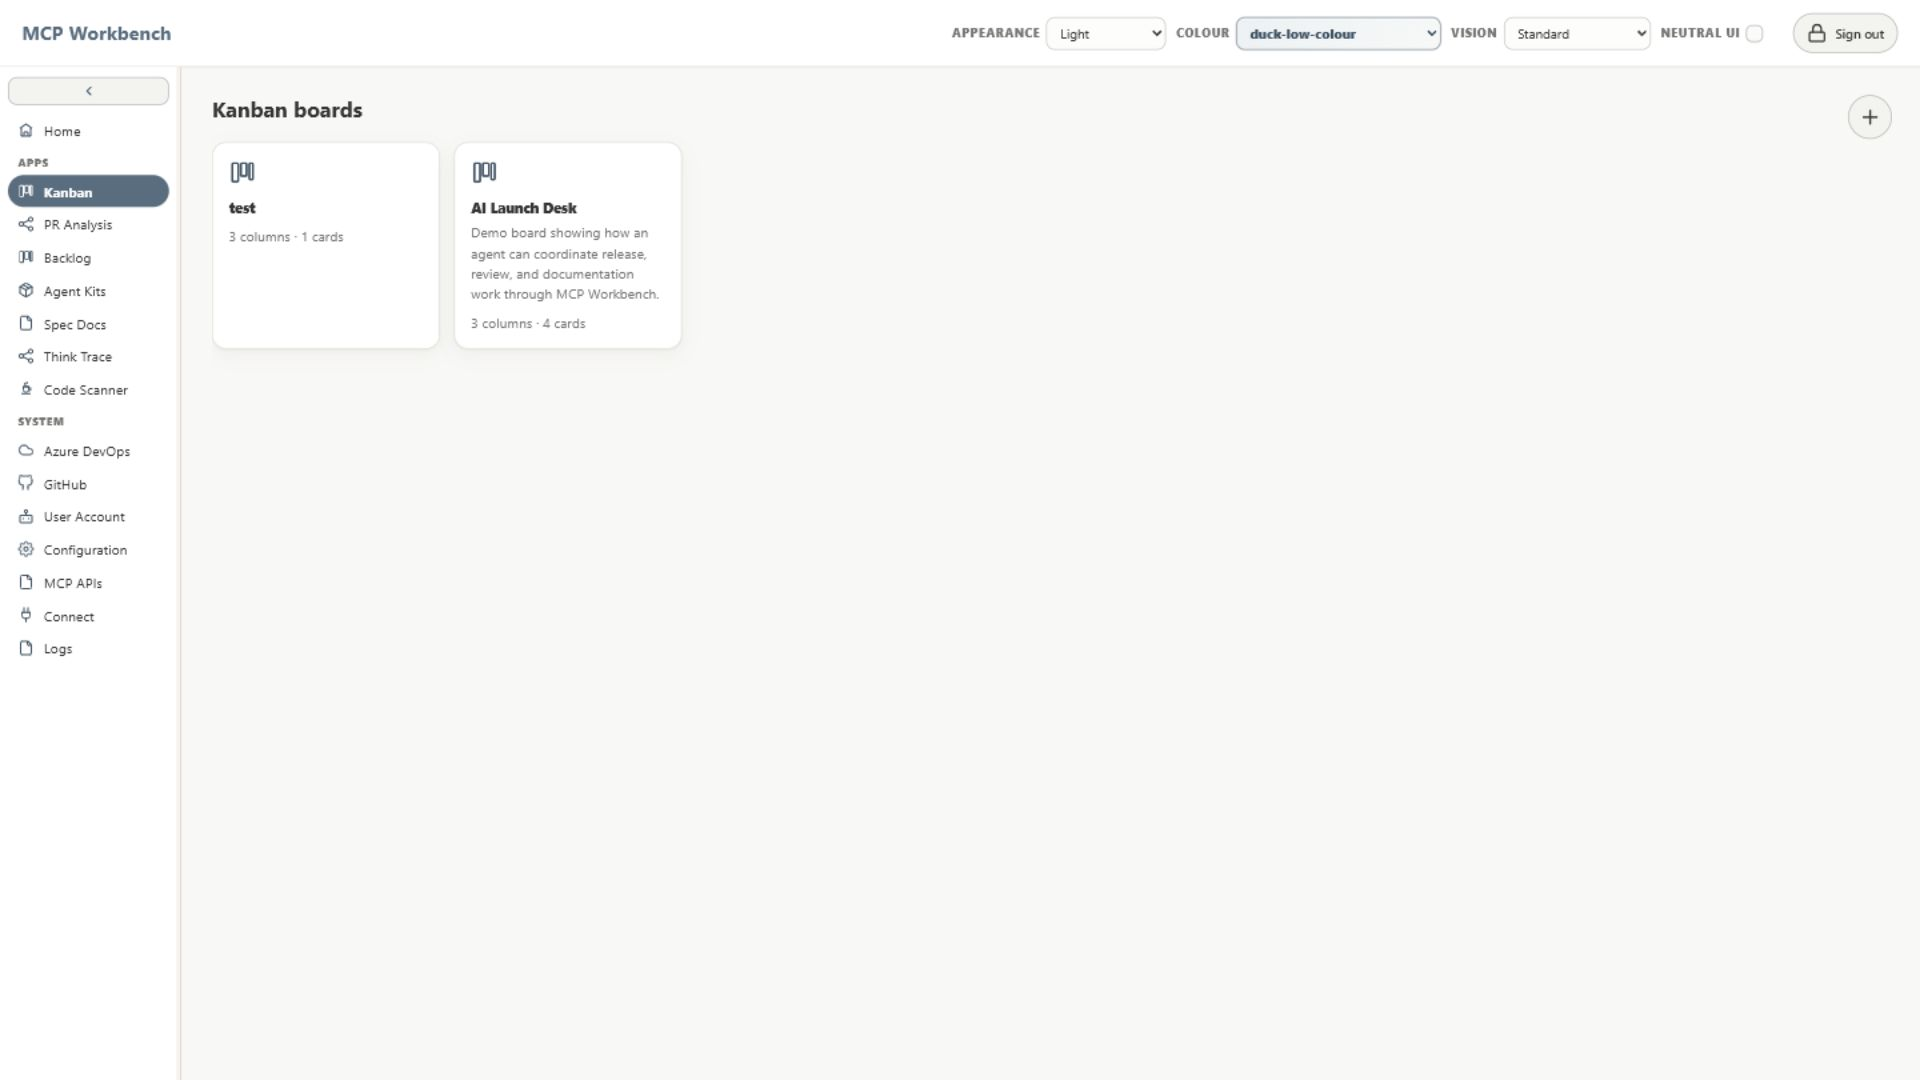
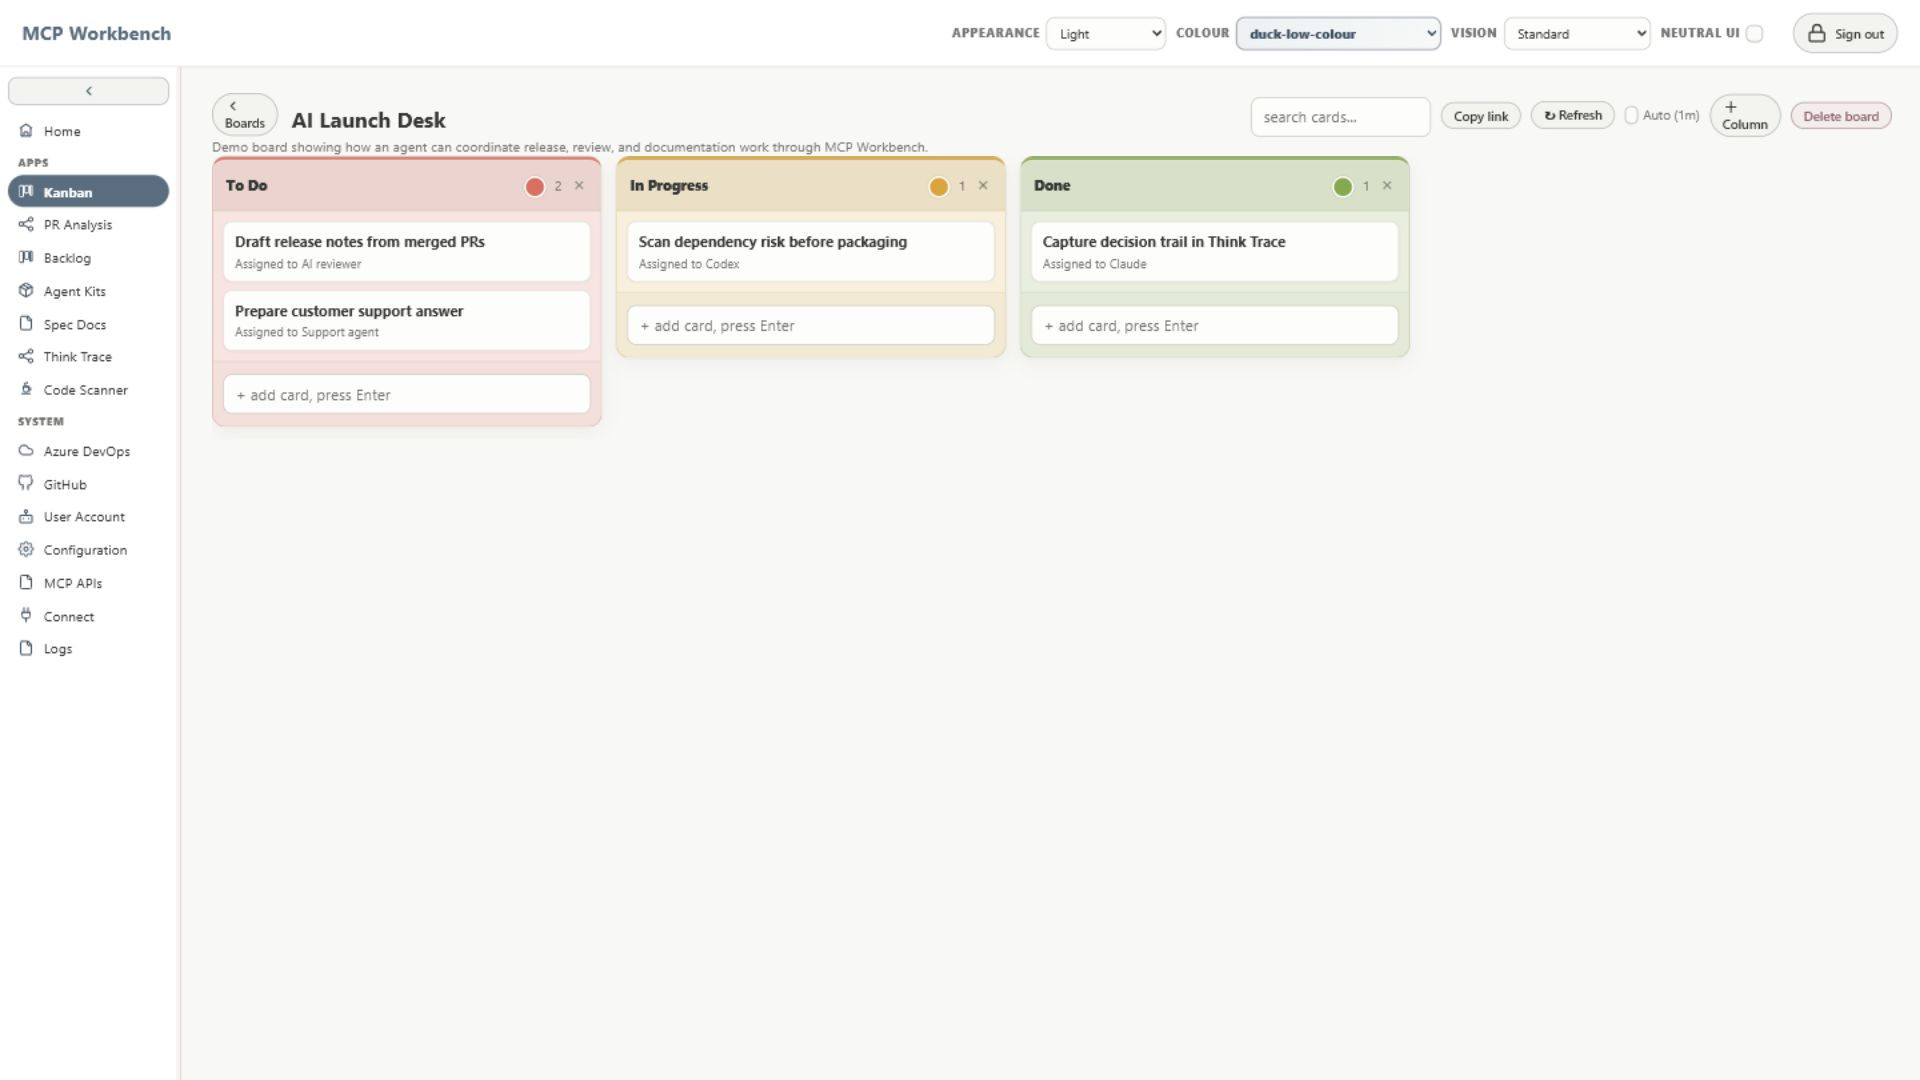
Use real Workbench screenshots

Changed region(s): [[0.0938, 0.0917, 0.75, 0.3972], [0.75, 0.0917, 1.0, 0.1222]]

diff --git a/assets/css/site.css b/assets/css/site.css
@@ -1139,43 +1139,17 @@ button.store-badge:focus {
   padding: 4px 8px;
 }
 
-.visual-feature .mini-kanban-board,
-.visual-feature .mini-proposal-layout,
 .visual-feature .scanner-recommendations {
   gap: 8px;
 }
 
-.visual-feature .mini-kanban-board section,
-.visual-feature .mini-proposal-layout section,
 .visual-feature .scanner-recommendations article {
   padding: 8px;
 }
 
-.visual-feature .mini-kanban-board h4,
-.visual-feature .mini-proposal-layout h4 {
-  margin-bottom: 5px;
-  font-size: 0.68rem;
-}
-
-.visual-feature .mini-kanban-board article,
-.visual-feature .mini-proposal-layout article {
-  margin-top: 5px;
-  padding: 6px;
-  font-size: 0.66rem;
-  line-height: 1.25;
-}
-
-.visual-feature .mini-proposal-layout p,
 .visual-feature .scanner-recommendations p {
   font-size: 0.68rem;
   line-height: 1.28;
-}
-
-.visual-feature .mini-proposal-layout span,
-.visual-feature .mini-proposal-layout button {
-  margin-top: 7px;
-  padding: 5px 7px;
-  font-size: 0.62rem;
 }
 
 .visual-feature .scanner-recommendations b {
@@ -1261,8 +1235,6 @@ button.store-badge:focus {
   text-transform: none;
 }
 
-.mini-kanban-board,
-.mini-proposal-layout,
 .scanner-recommendations,
 .report-grid {
   display: grid;
@@ -1270,12 +1242,6 @@ button.store-badge:focus {
   min-height: 0;
 }
 
-.mini-kanban-board {
-  grid-template-columns: repeat(3, minmax(0, 1fr));
-}
-
-.mini-kanban-board section,
-.mini-proposal-layout section,
 .scanner-recommendations article,
 .report-chart,
 .report-table {
@@ -1287,53 +1253,17 @@ button.store-badge:focus {
   box-shadow: 0 10px 24px rgba(31, 42, 45, 0.06);
 }
 
-.mini-kanban-board h4,
-.mini-proposal-layout h4,
 .report-grid h4 {
   margin-bottom: 10px;
   color: var(--ink);
   font-size: 0.8rem;
 }
 
-.mini-kanban-board article,
-.mini-proposal-layout article {
-  margin-top: 8px;
-  padding: 10px;
-  border-radius: 7px;
-  background: #f6faf9;
-  color: var(--muted);
-  font-size: 0.78rem;
-  font-weight: 760;
-}
-
-.mini-proposal-layout {
-  grid-template-columns: 0.9fr 1.45fr 0.9fr;
-}
-
-.mini-proposal-layout p,
 .scanner-recommendations p,
 .report-chart p {
   margin: 0;
   color: var(--muted);
   font-size: 0.82rem;
-}
-
-.mini-proposal-layout span,
-.mini-proposal-layout button {
-  display: inline-flex;
-  width: max-content;
-  margin-top: 12px;
-  padding: 7px 10px;
-  border: 1px solid rgba(11, 116, 128, 0.2);
-  border-radius: 999px;
-  background: var(--wash-strong);
-  color: var(--accent-dark);
-  font-size: 0.74rem;
-  font-weight: 900;
-}
-
-.mini-proposal-layout button {
-  border: 0;
 }
 
 .scanner-recommendations {

diff --git a/apps/workbench/index.html b/apps/workbench/index.html
@@ -6,7 +6,7 @@
     <title>MCP Workbench | Duck Code</title>
     <meta name="description" content="MCP Workbench is a local control panel for connecting AI agents to GitHub, Azure DevOps, Kanban, backlog planning, PR review, traces, and code analysis.">
     <link rel="icon" href="../../assets/img/workbench/duck_uncertain_transparent.png">
-    <link rel="stylesheet" href="../../assets/css/site.css?v=workbench-20260703-no-preview">
+    <link rel="stylesheet" href="../../assets/css/site.css?v=workbench-20260703-real-screens">
   </head>
   <body class="workbench-page">
     <header class="site-header">
@@ -154,55 +154,11 @@
                   <button class="carousel-control carousel-prev" type="button" data-carousel-prev aria-label="Previous screenshot"><svg width="18" height="18" aria-hidden="true" viewBox="0 0 24 24"><path d="m15 18-6-6 6-6"/></svg></button>
                   <div class="carousel-viewport">
                     <figure class="carousel-slide is-active" data-carousel-slide>
-                      <div class="demo-screen mini-kanban-screen" role="img" aria-label="Simulated Workbench Kanban board with populated review columns">
-                        <div class="mini-app-chrome">
-                          <span>MCP Workbench</span>
-                          <span>Kanban</span>
-                        </div>
-                        <div class="mini-kanban-board">
-                          <section>
-                            <h4>To Do</h4>
-                            <article>Draft work item from support escalation</article>
-                            <article>Check owner and service boundary</article>
-                          </section>
-                          <section>
-                            <h4>In Progress</h4>
-                            <article>Prepare regression test-plan note</article>
-                            <article>Link trace evidence</article>
-                          </section>
-                          <section>
-                            <h4>Review</h4>
-                            <article>Human approval before provider write</article>
-                          </section>
-                        </div>
-                      </div>
+                      <img src="../../assets/img/workbench/screenshots/workbench-kanban.png" width="1920" height="1080" alt="MCP Workbench Kanban board populated with local release, support, scan, and trace cards">
                       <figcaption>Use a populated local board as the review surface.</figcaption>
                     </figure>
                     <figure class="carousel-slide" data-carousel-slide hidden>
-                      <div class="demo-screen mini-backlog-screen" role="img" aria-label="Simulated Workbench Backlog proposal with work item, test plan, PR task, and approval queue">
-                        <div class="mini-app-chrome">
-                          <span>Backlog</span>
-                          <span>No provider write yet</span>
-                        </div>
-                        <div class="mini-proposal-layout">
-                          <section>
-                            <h4>Conversation</h4>
-                            <p>Quote totals drift after account-limit update.</p>
-                            <span>Azure DevOps</span>
-                          </section>
-                          <section>
-                            <h4>Drafted changes</h4>
-                            <article><b>Bug item</b>Repro and owner.</article>
-                            <article><b>Test plan</b>Quote regression.</article>
-                            <article><b>PR task</b>Link impact proof.</article>
-                          </section>
-                          <section>
-                            <h4>Approval queue</h4>
-                            <p>Review exact writes before push.</p>
-                            <button type="button">Approve selected</button>
-                          </section>
-                        </div>
-                      </div>
+                      <img src="../../assets/img/workbench/screenshots/workbench-backlog.png" width="1920" height="1080" alt="MCP Workbench Backlog conversation with local work item, test plan, and pull request proposals">
                       <figcaption>Backlog proposals stay local until you approve the exact write.</figcaption>
                     </figure>
                   </div>